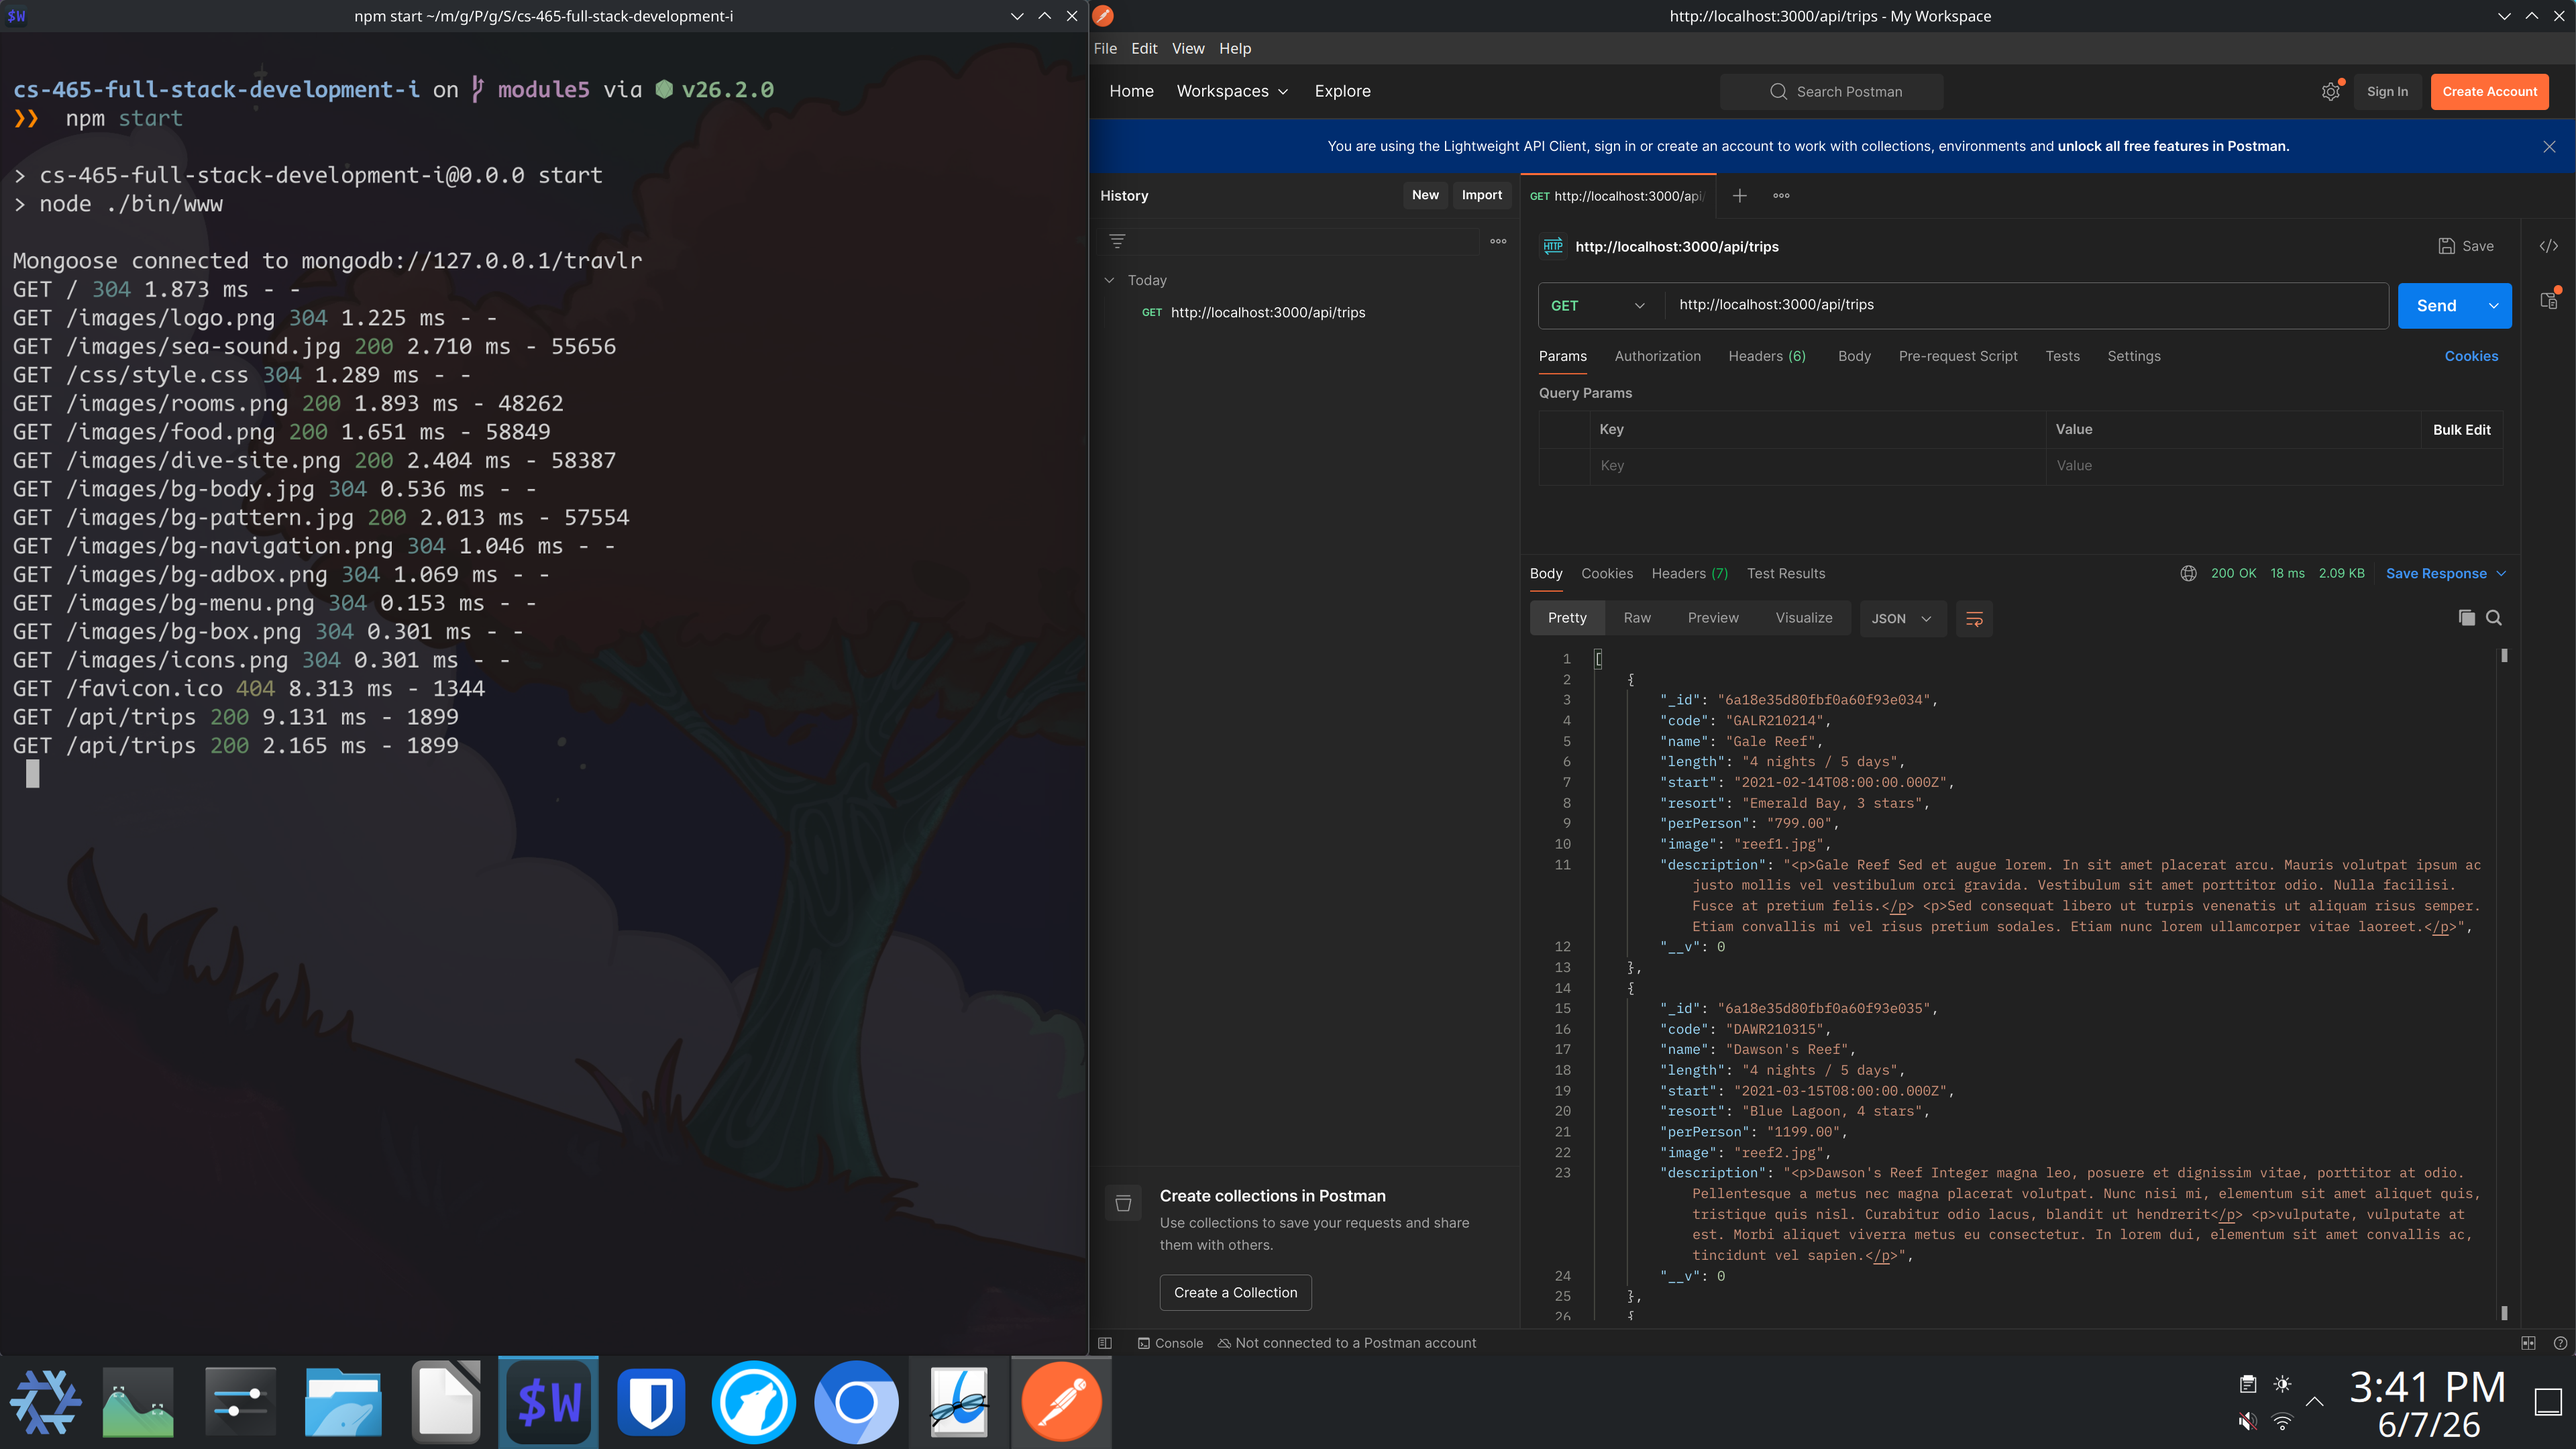
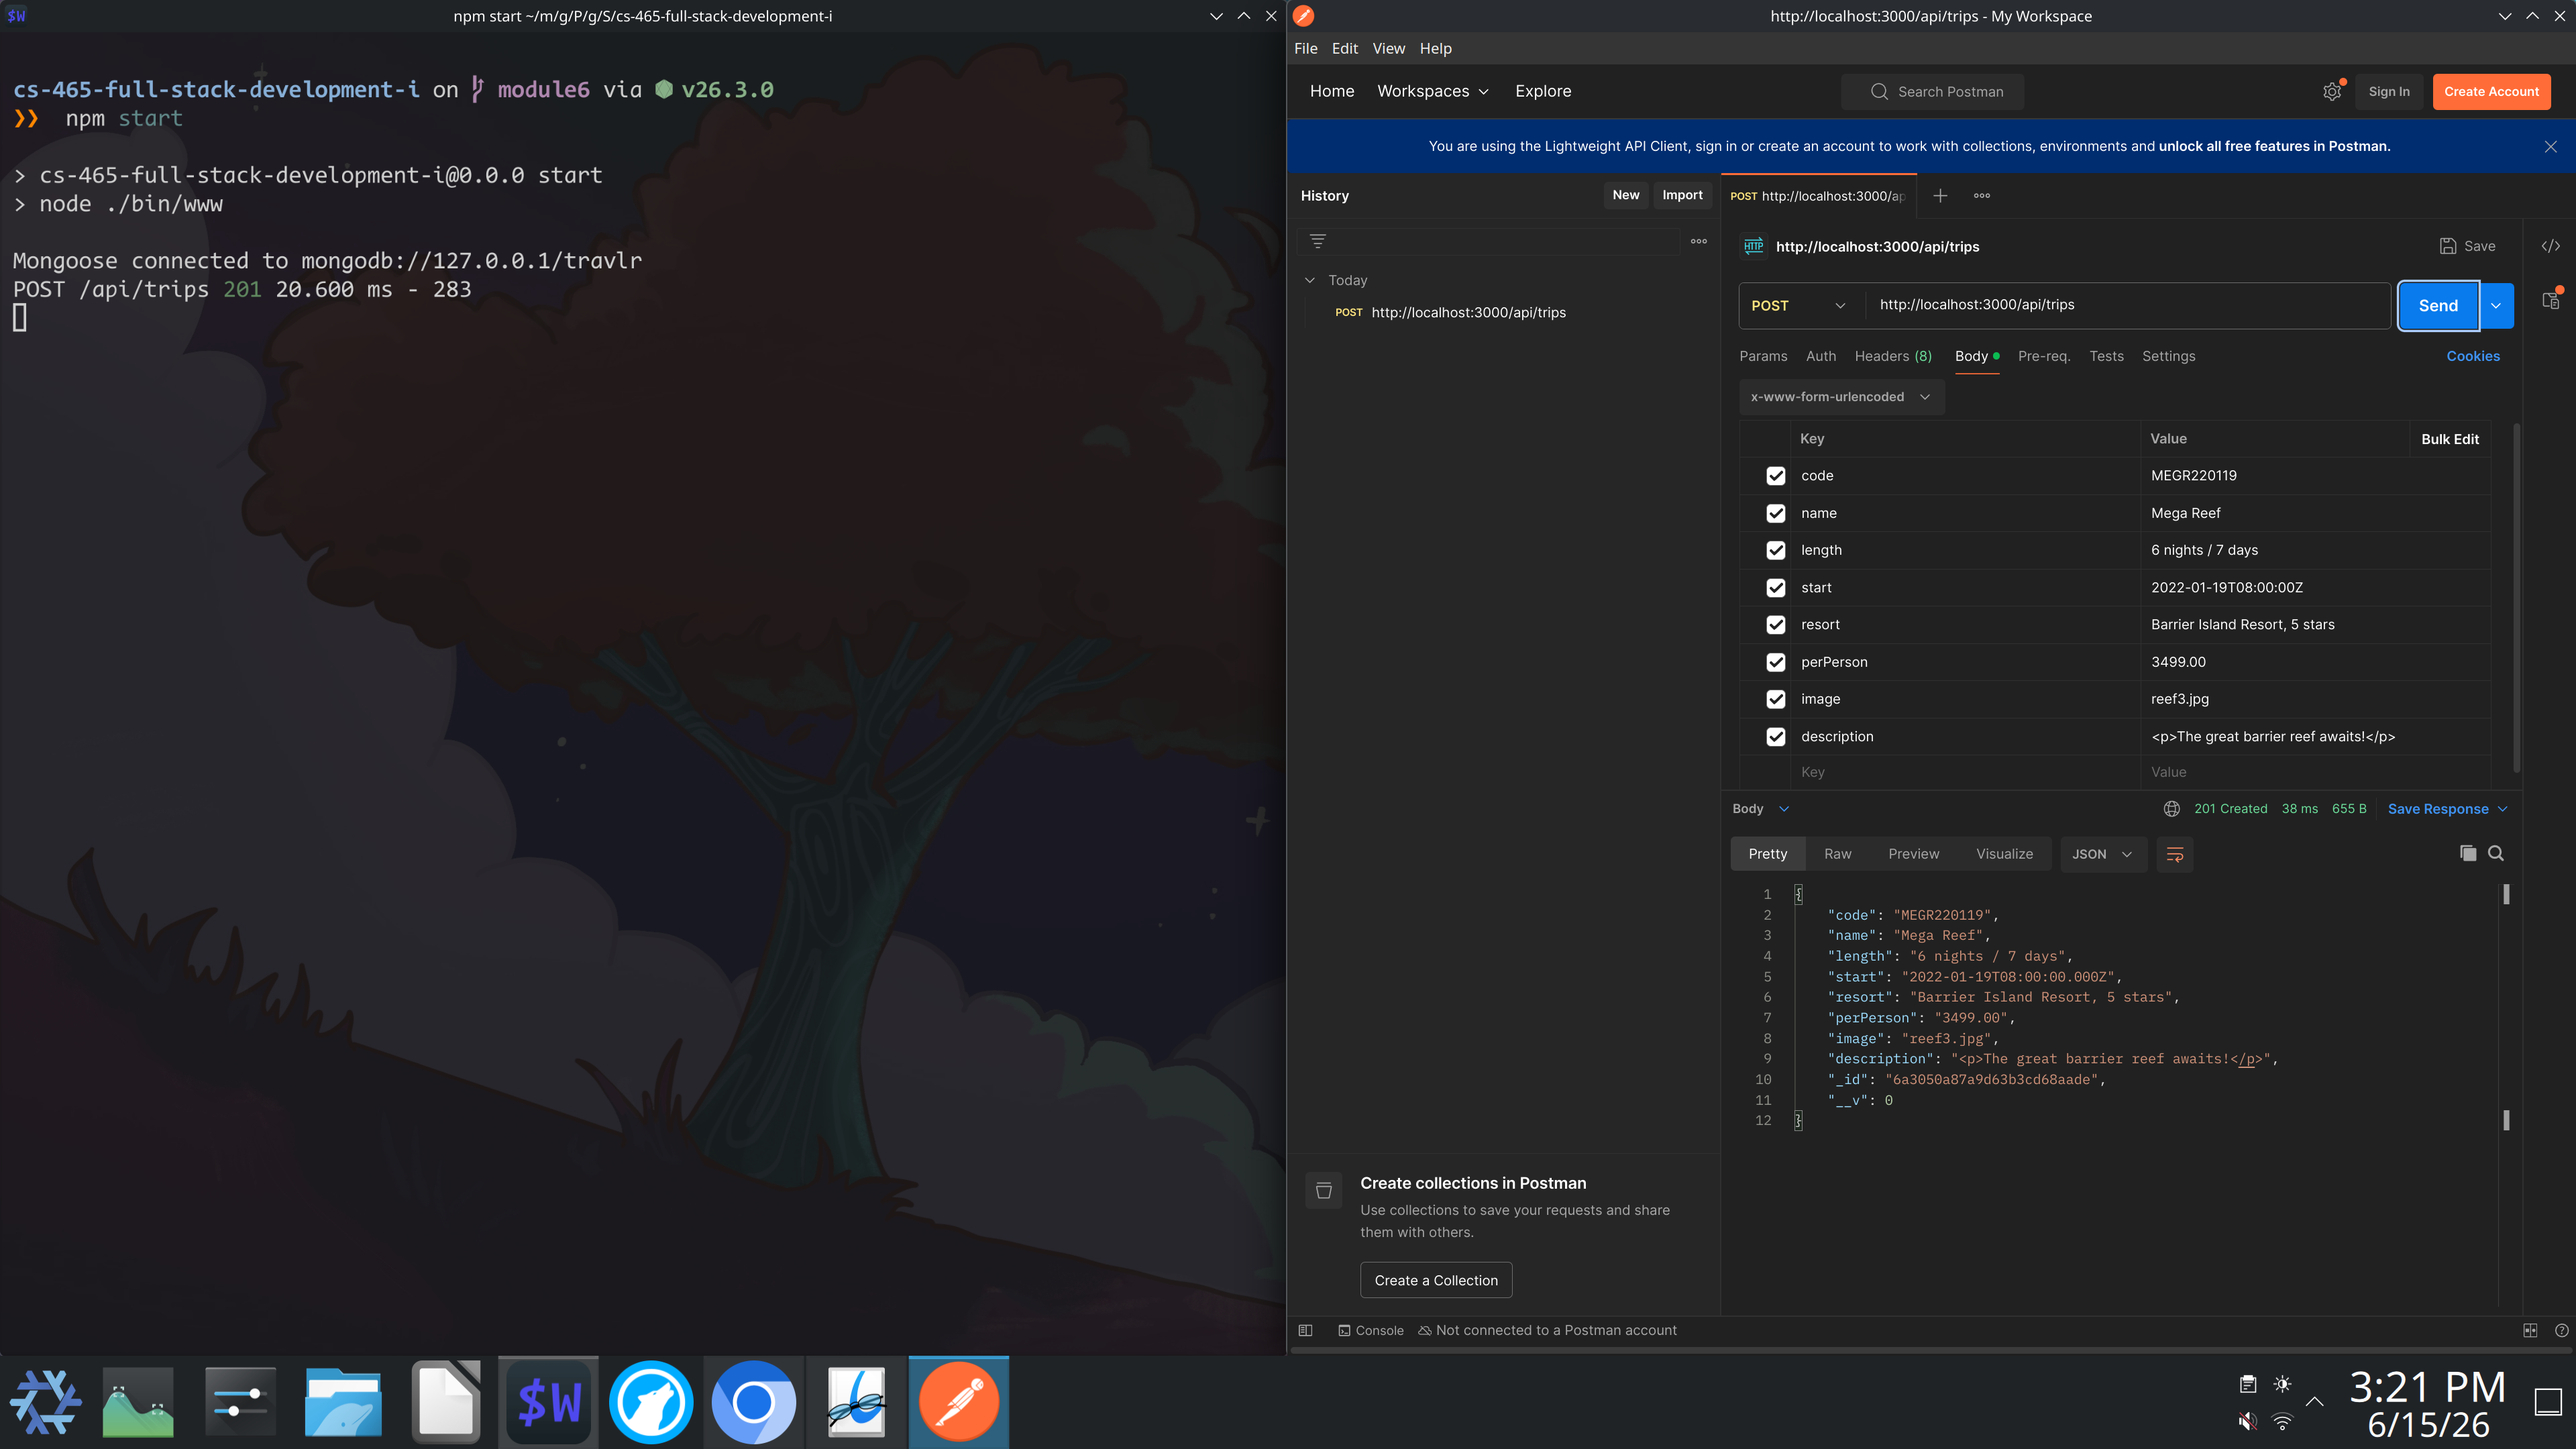
Updating readme.

diff --git a/README.md b/README.md
@@ -42,9 +42,14 @@ use npx to run local node packages angular/cli and blank
 
 ## Changes
 
-### Screenshot of 
+### Screenshot of testing post
 
 <div align="center">
   <img src="screenshot1.png" width="100%" alt="img">
 </div>
 
+### Screenshot of result in database 
+
+<div align="center">
+  <img src="screenshot2.png" width="100%" alt="img">
+</div>
